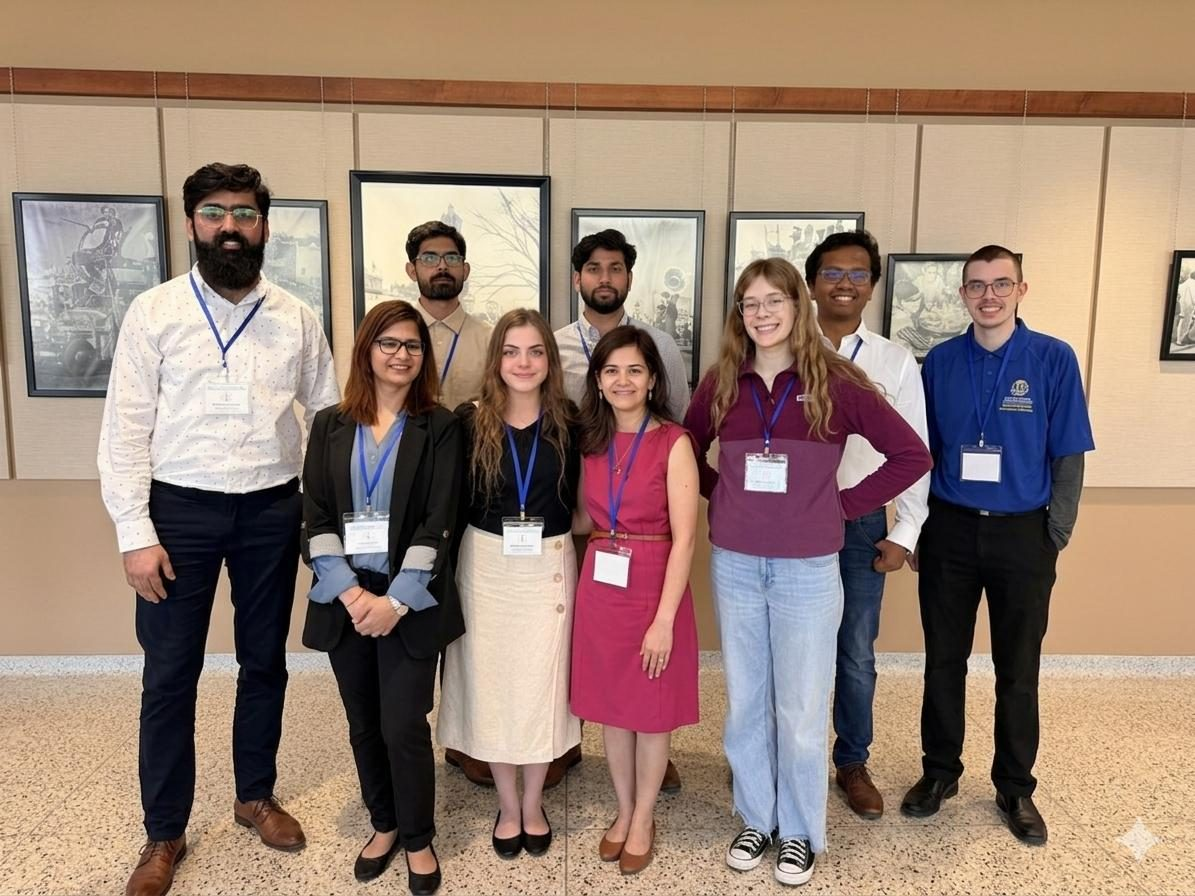
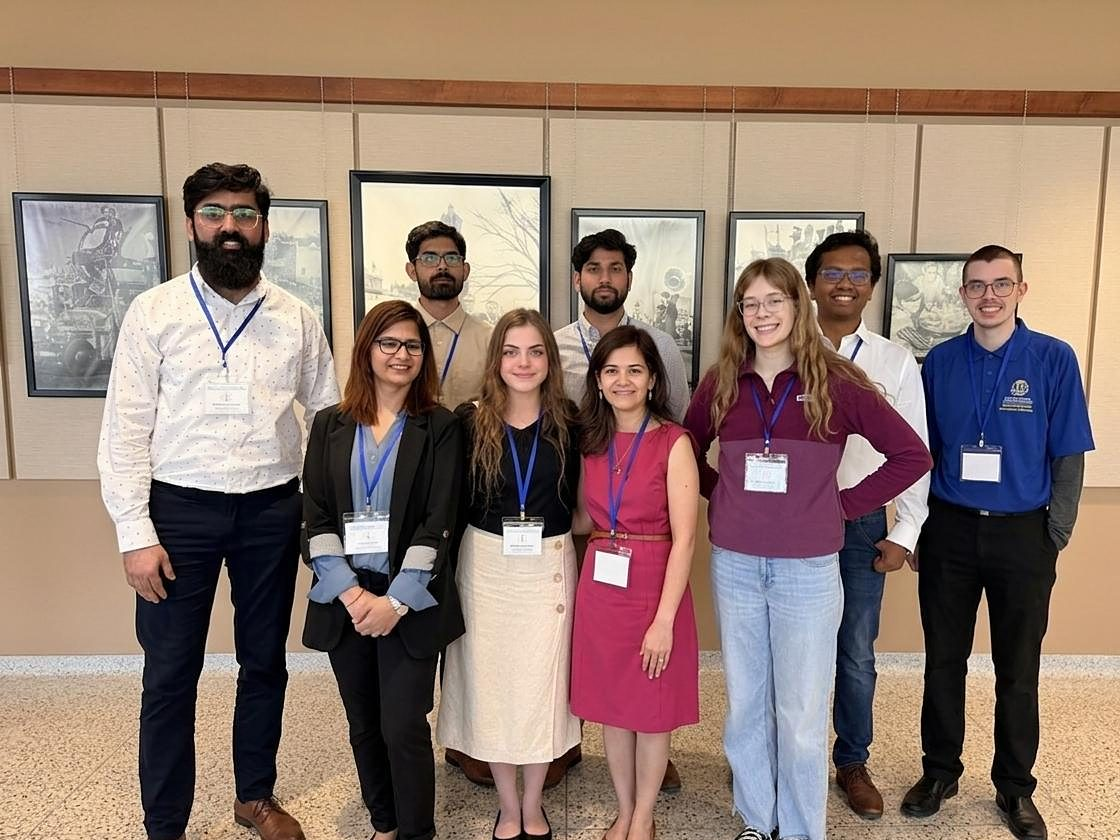
Touch up photos: brighten dark shots, add contrast, crop out corner mark
Claude-Session: https://claude.ai/code/session_01Q6uUMNuPL1qGPgwaooW81o

diff --git a/index.html b/index.html
@@ -463,7 +463,7 @@
       }
 
       .field-moment.lab-feature > img {
-        aspect-ratio: 1195 / 896;
+        aspect-ratio: 4 / 3;
       }
 
       .lab-feature figcaption {
@@ -1072,7 +1072,7 @@
             </figure>
           </div>
           <figure class="field-moment lab-feature">
-            <img decoding="async" src="ameen-lab-team.jpg" alt="Nine members of the Ameen Lab standing together in a hallway with framed photographs behind them" width="1195" height="896" loading="lazy">
+            <img decoding="async" src="ameen-lab-team.jpg" alt="Nine members of the Ameen Lab standing together in a hallway with framed photographs behind them" width="1120" height="840" loading="lazy">
             <figcaption>
               <img class="lab-logo" src="ameen-lab-logo.png" alt="Ameen Lab Plant Pathology logo" width="180" height="162" loading="lazy">
               <span>
